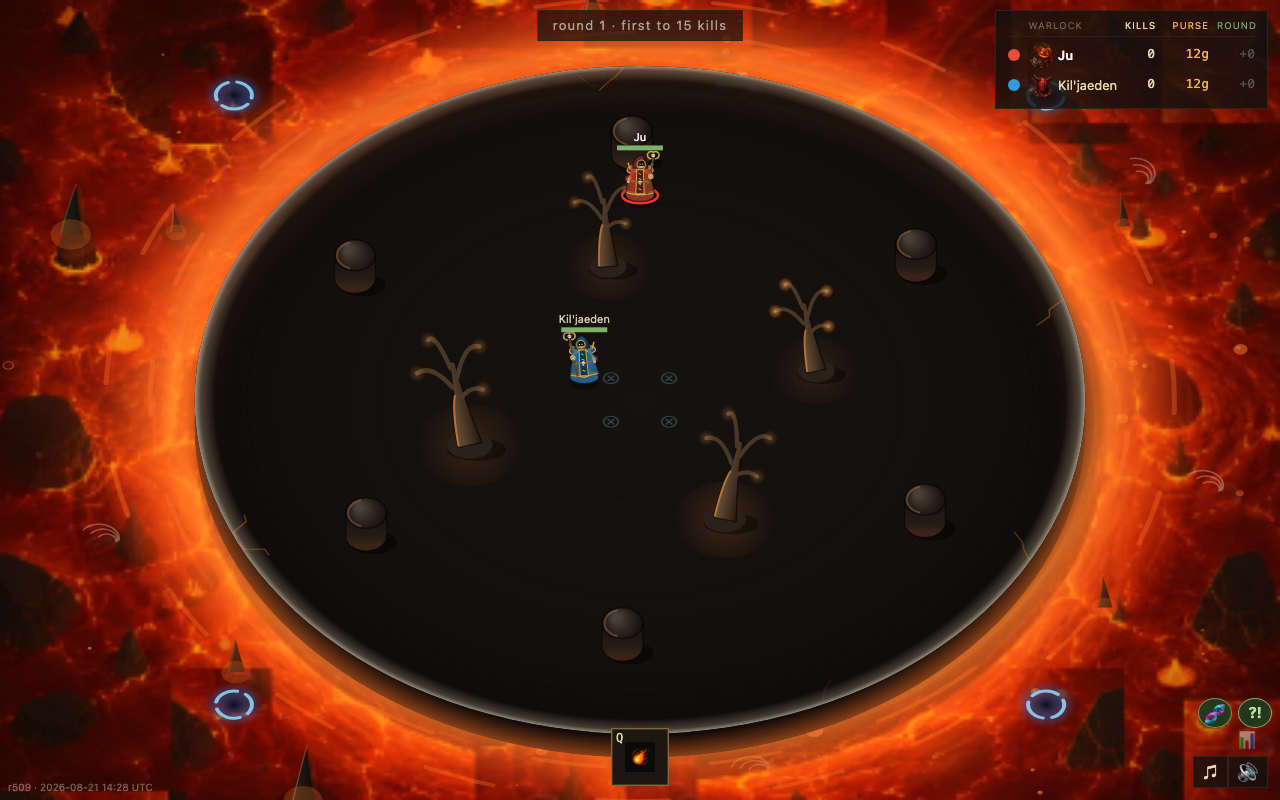
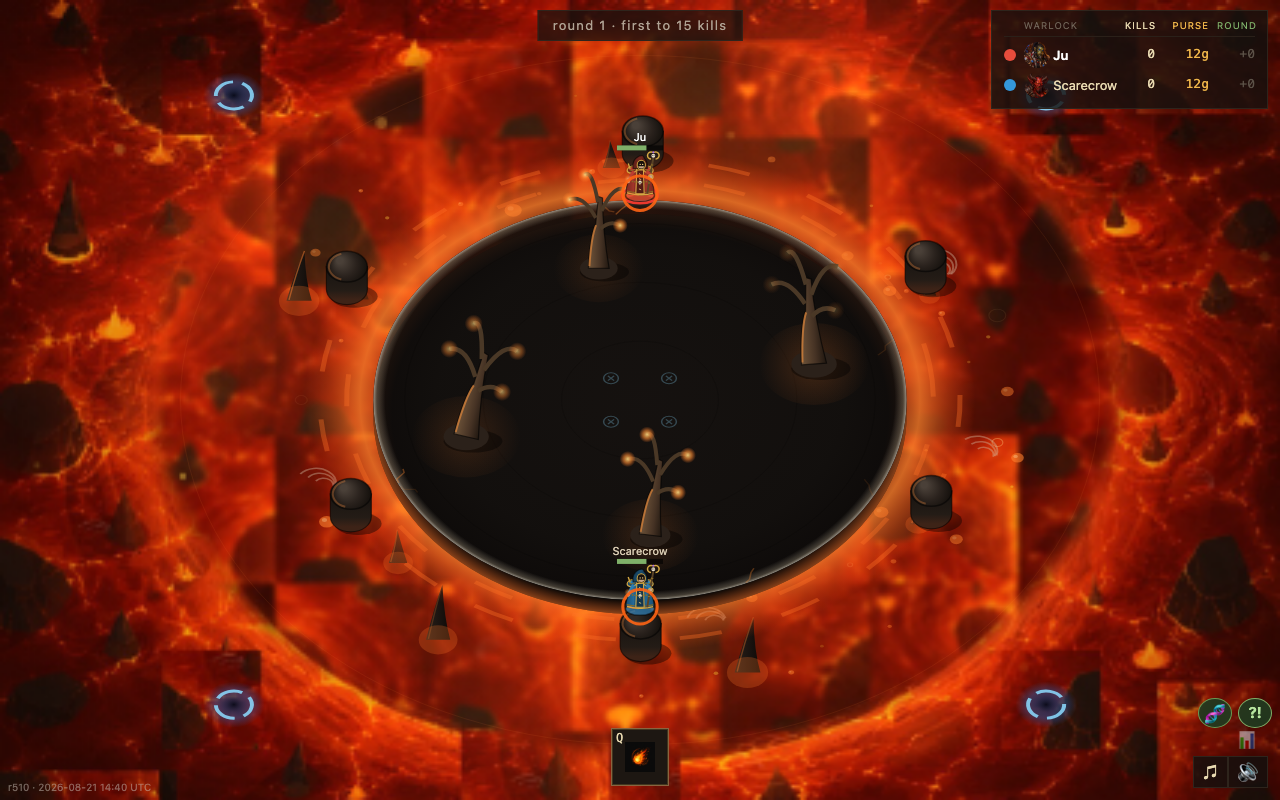
Ju v21.4 (issue #13): only the CONTOURS of his image are kept — the mock arena interior is refilled with randomized lava patches, so the shrinking ring reveals lava, never the mockup's ghost warlocks

diff --git a/shared/version.js b/shared/version.js
@@ -2,4 +2,4 @@
 // rN = repo commit count. Shown in the client corner, in /health and in the
 // welcome handshake, so a stale tab, a stale Pages CDN copy or a mixed
 // client/server pair announces itself instead of being a mystery.
-export const VERSION = 'r510 · 2026-08-21 14:40 UTC';
+export const VERSION = 'r511 · 2026-08-21 14:55 UTC';
